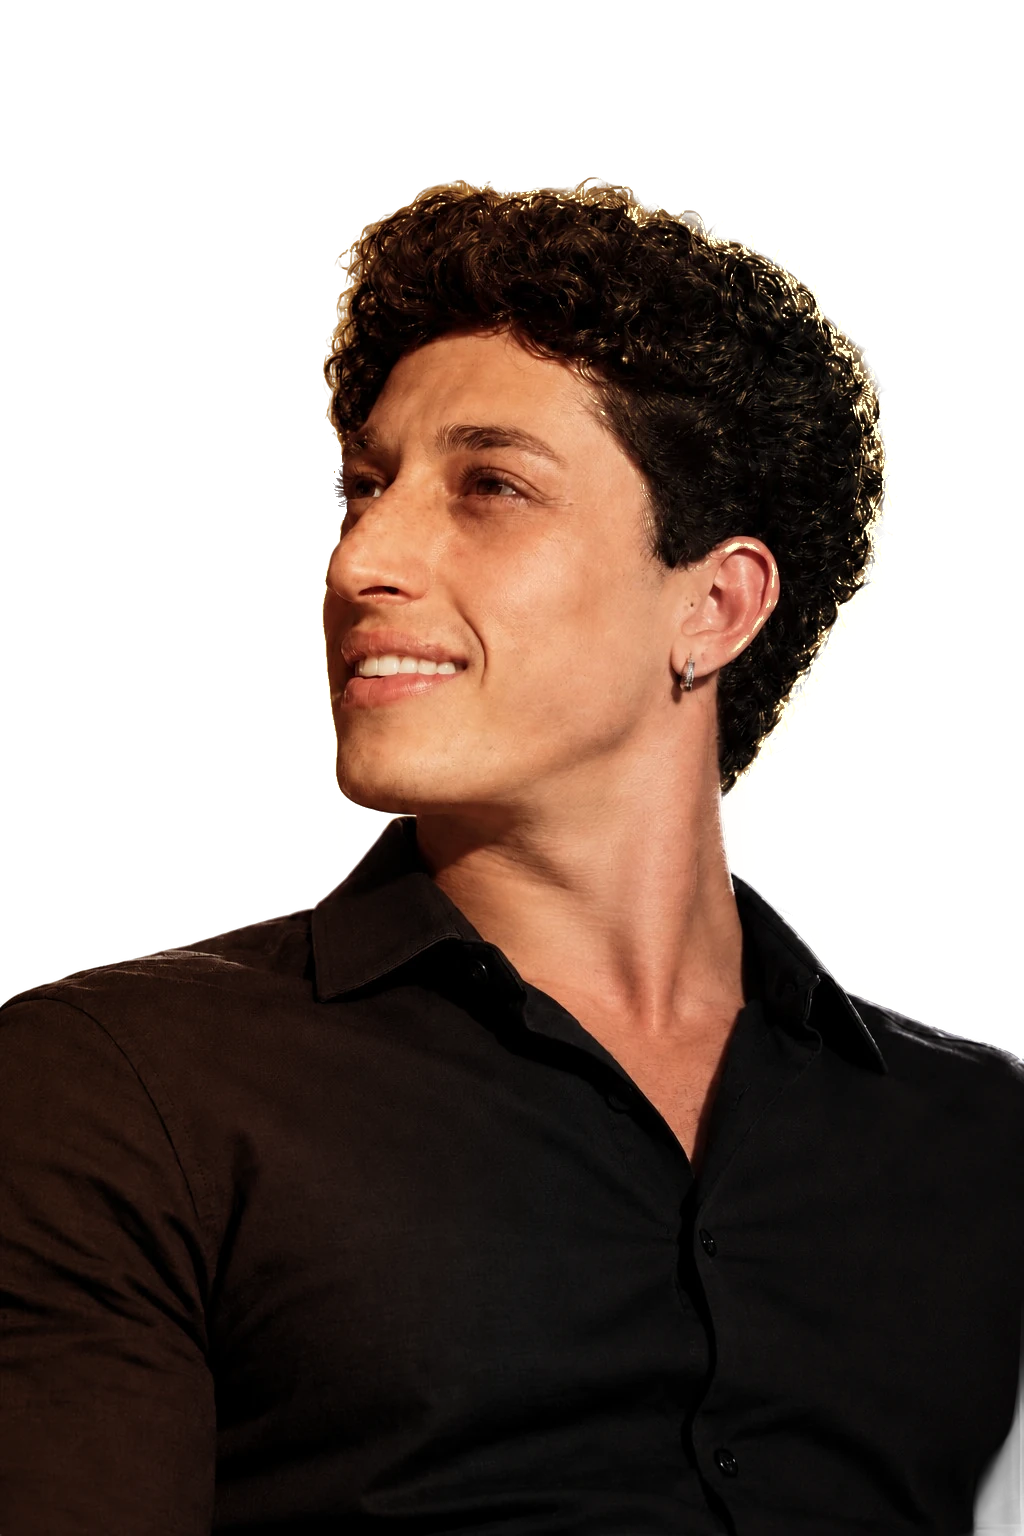
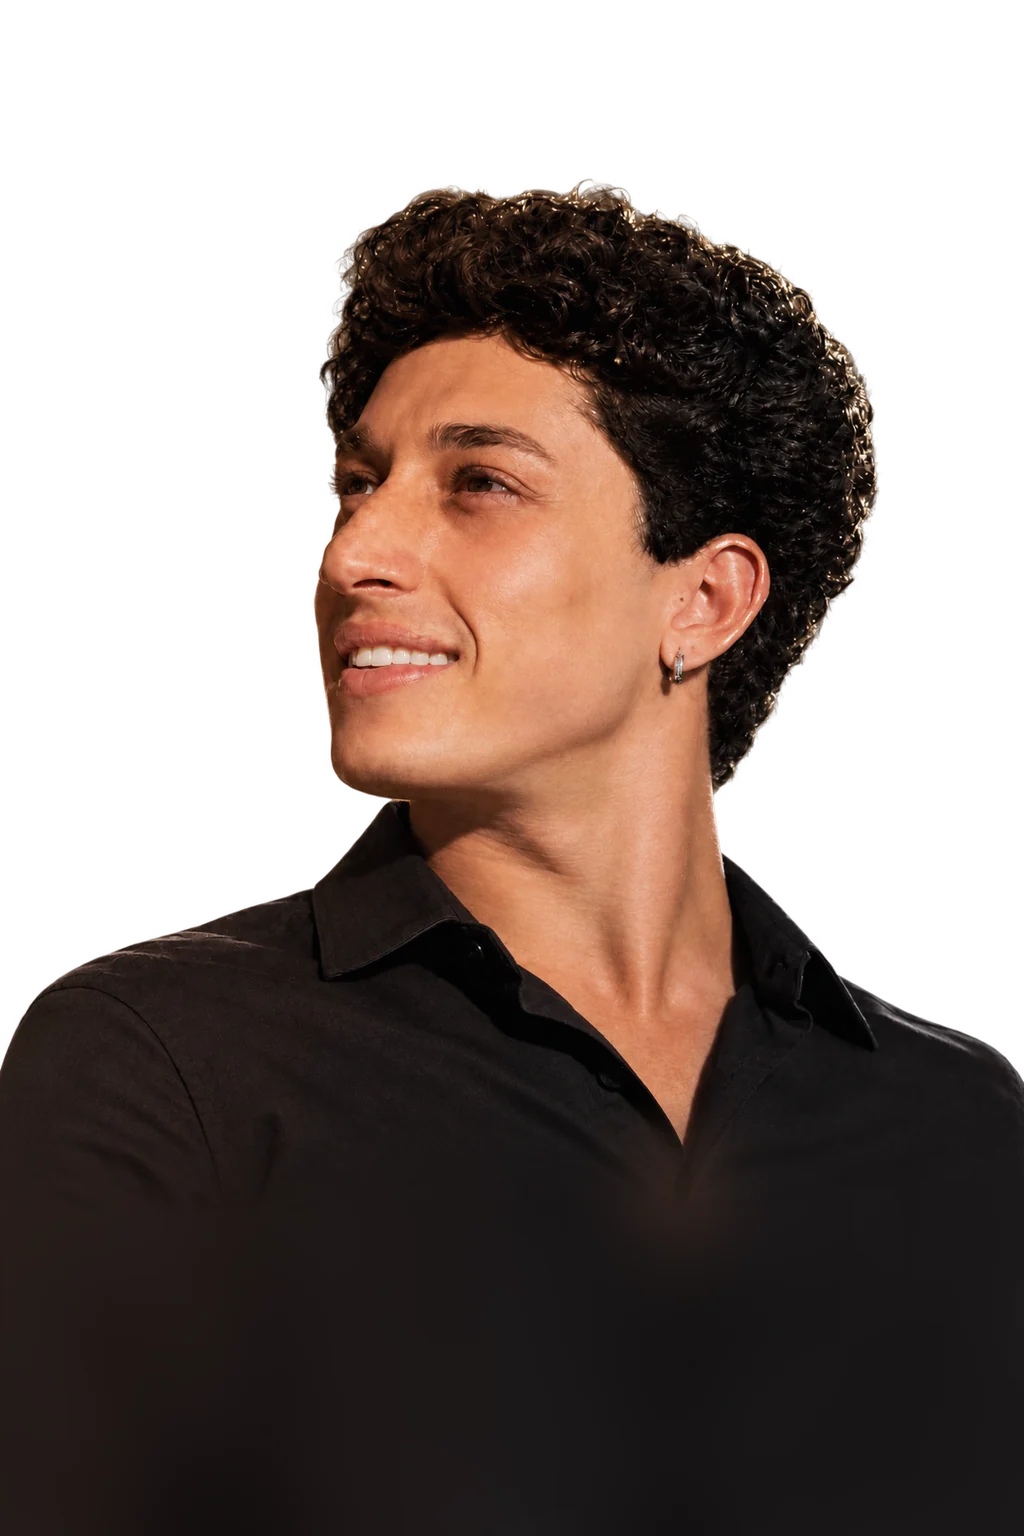
Hero: nova foto (retrato com brinco), mesmo enquadramento e luz de contorno refeita

diff --git a/index.html b/index.html
@@ -33,7 +33,7 @@
   <link rel="preconnect" href="https://fonts.gstatic.com" crossorigin>
   <link href="https://fonts.googleapis.com/css2?family=Instrument+Serif:ital@0;1&family=Inter+Tight:wght@400;500;600;700&display=swap" rel="stylesheet">
   <!-- foto da hero (recorte com a luz pintada); o ?v= troca quando a foto muda, para o cache de 7 dias não segurar a antiga -->
-  <link rel="preload" as="image" href="img/gabriel-hero.webp?v=5" fetchpriority="high">
+  <link rel="preload" as="image" href="img/gabriel-hero.webp?v=6" fetchpriority="high">
   <!-- fundo da hero baixa junto com a página (antes só depois do CSS: a tela ficava laranja chapada por um instante) -->
   <link rel="preload" as="image" href="img/hero-fundo.webp?v=2" fetchpriority="high">
   <link rel="preload" as="image" href="img/hero-fundo-960.webp?v=2" media="(max-width: 860px), (max-aspect-ratio: 4/5), (orientation: landscape) and (max-height: 500px) and (max-width: 1000px)">
@@ -157,7 +157,7 @@
 
   <!-- Foto recortada: fica na frente do painel, como na referência -->
   <div class="person">
-    <img src="img/gabriel-hero.webp?v=5" alt="Gabriel Ribeiro, sorrindo e olhando para cima" width="1024" height="1536" fetchpriority="high">
+    <img src="img/gabriel-hero.webp?v=6" alt="Gabriel Ribeiro, sorrindo e olhando para cima" width="1024" height="1536" fetchpriority="high">
     <!-- luz de contorno: a luz quente do fundo "abraçando" a borda do cabelo, do rosto e dos ombros, por dentro do
          recorte (img/gabriel-luz.webp, gerada a partir do recorte e das cores do fundo atrás de cada ponto) -->
     <span class="person-rim" aria-hidden="true"></span>

diff --git a/css/style.css b/css/style.css
@@ -1917,7 +1917,7 @@ html.leve .intro .btn-work, html.leve .intro .bw-ring i, html.leve .intro .btn-w
    molde dos ombros e anda junto com a foto. Igual no PC e no celular. */
 .person-rim {
   position: absolute; inset: 0; pointer-events: none;
-  background: url("../img/gabriel-luz.webp?v=3") 0 0 / 100% 100% no-repeat;
+  background: url("../img/gabriel-luz.webp?v=4") 0 0 / 100% 100% no-repeat;
   mix-blend-mode: screen;
 }
 
